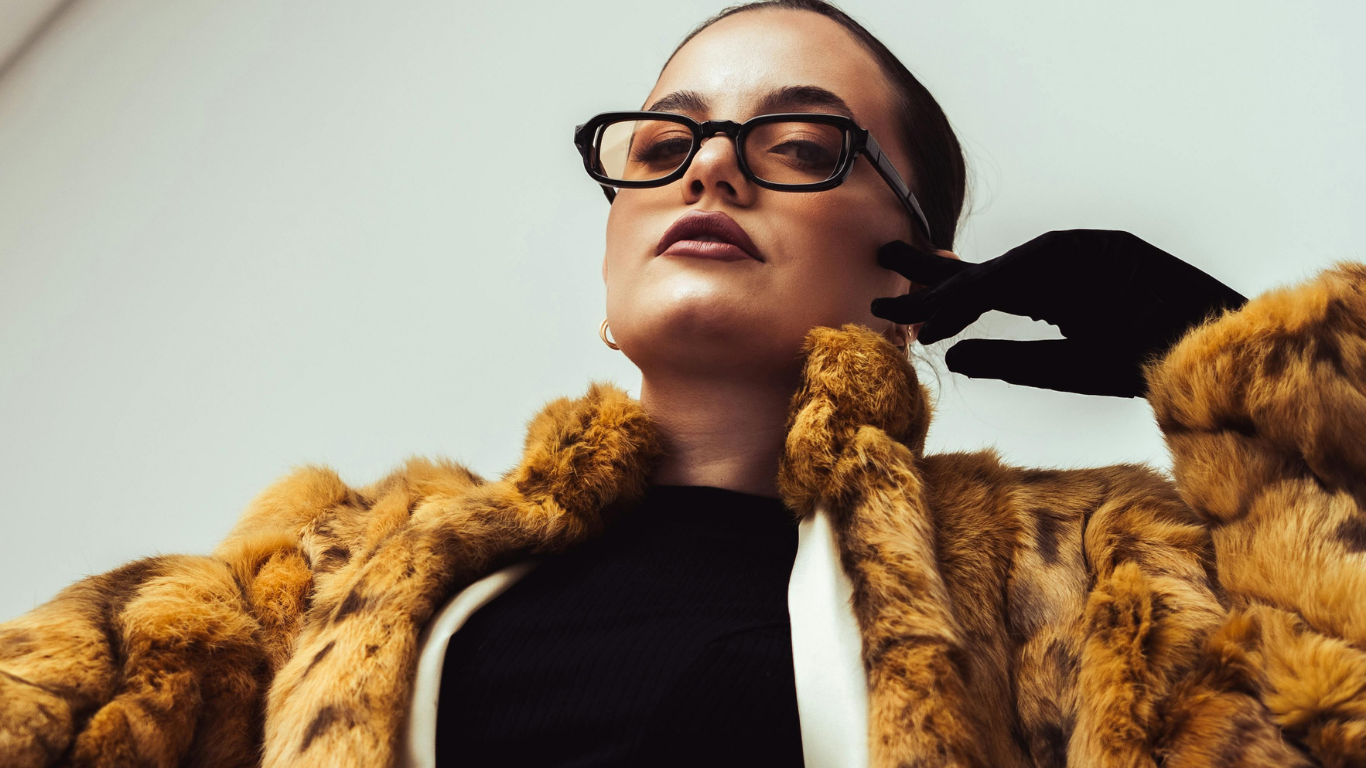
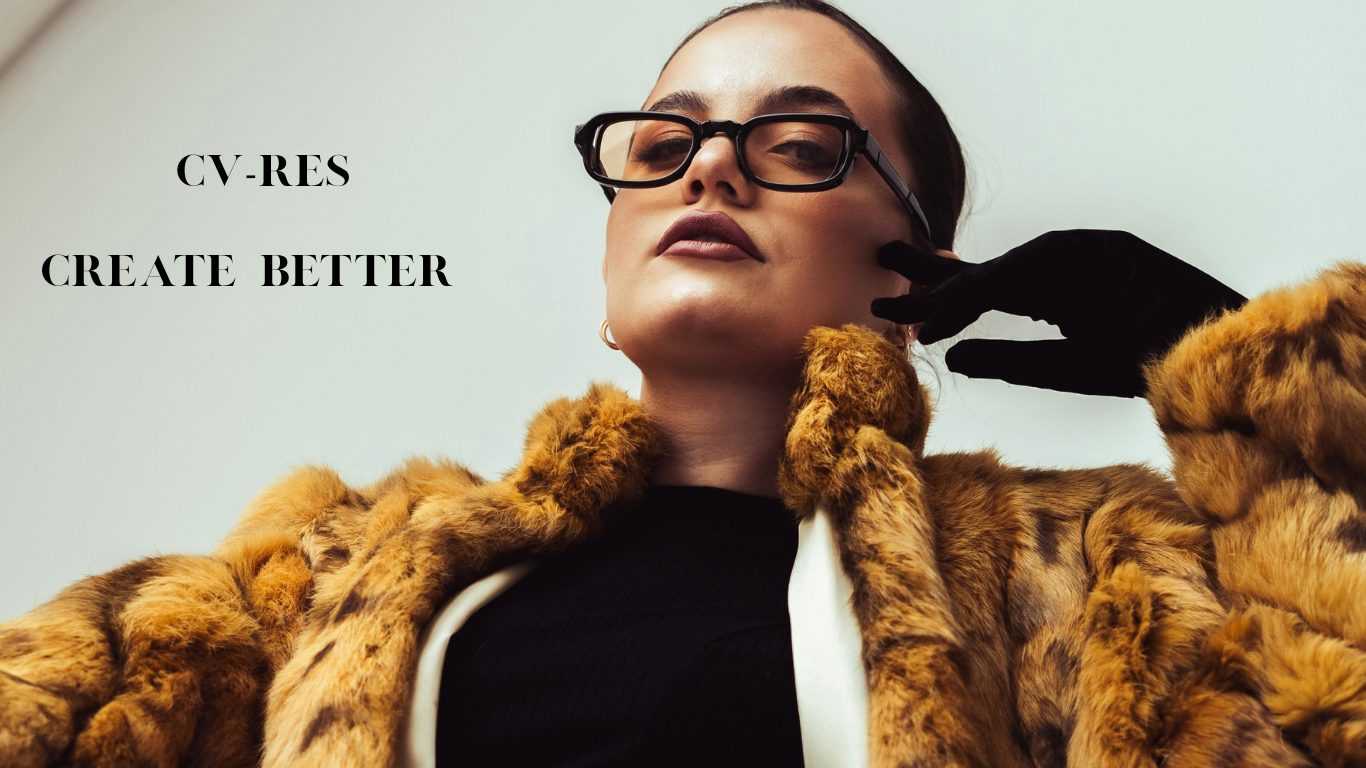
feat: complete UI design for login, registration, and CV upload pages

Changed region(s): [[0.0307, 0.3125, 0.3382, 0.375], [0.123, 0.1875, 0.2767, 0.25]]

diff --git a/templates/upload_cv_page.html b/templates/upload_cv_page.html
@@ -7,63 +7,82 @@
     <link href="https://cdn.jsdelivr.net/npm/bootstrap@5.3.3/dist/css/bootstrap.min.css" rel="stylesheet">
     <style>
         body {
-            background-color: #f8f9fa;
+            background: url("{{ url_for('static', filename='upload_yourcv.png') }}") no-repeat center center fixed;
+            background-size: cover;
+            height: 100vh;
+            margin: 0;
+            display: flex;
+            align-items: center;
+            justify-content: center;
         }
         .container {
-            max-width: 600px;
-            margin-top: 50px;
-            padding: 30px;
-            background-color: #fff;
-            border-radius: 8px;
-            box-shadow: 0 4px 6px rgba(0, 0, 0, 0.1);
+            max-width: 500px;
+            padding: 40px;
+            background-color: transparent;
+            border-radius: 15px;
         }
-        .form-control-file {
-            display: block;
-            width: 100%;
+        p, .alert {
+            color: #fff;
+        }
+        .alert-info {
+            background-color: rgba(255, 255, 255, 0.2);
+            border: 1px solid #fff;
+            color: #fff;
+        }
+        .btn-custom {
+            display: inline-block;
+            padding: 12px 25px;
+            background-color: transparent;
+            color: #fff; /* Yazı rengi beyaz yapıldı */
+            text-decoration: none;
+            border: 2px solid #fff; /* Çerçeve beyaz yapıldı */
+            font-family: 'Segoe UI', Roboto, Helvetica, Arial, sans-serif;
+            font-weight: bold;
+            text-align: center;
+            transition: all 0.3s ease;
+            font-size: 0.95rem;
+            min-width: 160px;
+            border-radius: 4px;
+            cursor: pointer;
+        }
+        .btn-custom:hover {
+            background-color: #fff;
+            color: #000;
+        }
+        .file-info {
+            color: #ff4d4d; /* Hata rengi kırmızı yapıldı */
+            margin-top: 10px;
+            display: none;
+            font-weight: bold;
         }
     </style>
 </head>
 <body>
 
     <div class="container">
-        <h2 class="mb-4 text-center">Upload Your CV</h2>
 
-        {% with messages = get_flashed_messages() %}
-            {% if messages %}
-                <ul class="list-unstyled">
-                    {% for message in messages %}
-                        <div class="alert alert-info" role="alert">
-                            {{ message }}
-                        </div>
-                    {% endfor %}
-                </ul>
-            {% endif %}
-        {% endwith %}
-
-        <p class="text-center">Please upload your CV in PDF, DOC, or DOCX format.</p>
-        
-        <form action="{{ url_for('cv.upload_file') }}" method="post" enctype="multipart/form-data">
-            <div class="mb-3">
-                <label for="file" class="form-label">Select File:</label>
+        <form id="upload-form" action="{{ url_for('cv.upload_file') }}" method="post" enctype="multipart/form-data">
+            <div class="mb-4 text-center">
                 <div class="custom-file-input-wrapper">
-                    <label for="file-upload" class="custom-file-label btn btn-primary">Select File</label>
+                    <label for="file-upload" class="btn-custom">Select File</label>
                     <input type="file" name="file" id="file-upload" class="d-none">
-                    <span id="file-name-display" class="ms-3 text-muted">No file selected</span>
+                    <div id="file-name-display" class="file-info">No file selected</div>
                 </div>
             </div>
-            <div class="d-grid gap-2">
-                <button type="submit" class="btn btn-primary">Upload CV</button>
+            <div class="text-center">
+                <button type="submit" class="btn-custom">Upload CV</button>
             </div>
         </form>
 
-        <hr>
-        <p class="text-center"><a href="{{ url_for('cv.index') }}">Return to Homepage</a></p>
+        <hr style="border-top: 1px solid rgba(255,255,255,0.3);">
+        <p class="text-center"><a href="{{ url_for('cv.index') }}" style="color: #fff; text-decoration: none;">Return to Homepage</a></p>
     </div>
 
     <script>
         document.addEventListener('DOMContentLoaded', function() {
             const fileInput = document.getElementById('file-upload');
             const fileNameDisplay = document.getElementById('file-name-display');
+            const uploadForm = document.getElementById('upload-form');
  
             // Allow selecting the same file again (resets value on click)
             fileInput.addEventListener('click', function() {
@@ -72,10 +91,28 @@
 
             fileInput.addEventListener('change', function(event) {
                 if (event.target.files.length > 0) {
-                    fileNameDisplay.textContent = event.target.files[0].name;
+                    // Hide the error message if a file is selected
+                    fileNameDisplay.style.display = 'none';
+                    // Optional: If you want to show the file name specifically, uncomment below:
+                    // fileNameDisplay.textContent = event.target.files[0].name;
+                    // fileNameDisplay.style.display = 'block';
+                }
+            });
+
+            uploadForm.addEventListener('submit', function(event) {
+                if (fileInput.files.length === 0) {
+                    event.preventDefault(); // Stop form submission
+                    fileNameDisplay.textContent = 'Please select a file first!';
+                    fileNameDisplay.style.display = 'block'; // Show error message
                 } else {
-                    fileNameDisplay.textContent = 'No file selected';
-               }
+                    const file = fileInput.files[0];
+                    const allowedExtensions = /(\.pdf|\.doc|\.docx)$/i;
+                    if (!allowedExtensions.exec(file.name)) {
+                        event.preventDefault();
+                        fileNameDisplay.textContent = 'Invalid format! Please upload PDF, DOC, or DOCX.';
+                        fileNameDisplay.style.display = 'block';
+                    }
+                }
             });
         });
 
@@ -84,7 +121,8 @@
             const form = document.querySelector('form');
             if (form) {
                 form.reset();
-                document.getElementById('file-name-display').textContent = 'No file selected';
+                const fileNameDisplay = document.getElementById('file-name-display');
+                if (fileNameDisplay) fileNameDisplay.style.display = 'none';
             }
         });
     </script>

diff --git a/templates/index.html b/templates/index.html
@@ -23,7 +23,7 @@
         .bg-image {
             width: 100%;
             height: 100%;
-            object-fit: contain; /* Resmi bozmadan sığdırır */
+            object-fit: cover; /* Sayfayı tamamen kaplaması için 'cover' kullanıldı */
             display: block;
         }
 
@@ -92,16 +92,6 @@
     </style>
 </head>
 <body>
-
-    {% with messages = get_flashed_messages() %}
-    {% if messages %}
-    <ul class="flash-bar">
-        {% for message in messages %}
-        <li>{{ message }}</li>
-        {% endfor %}
-    </ul>
-    {% endif %}
-    {% endwith %}
 
     <div class="wrapper">
         <!-- Sadece resmi göster -->
